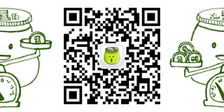
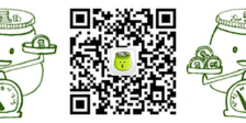
resize picture

diff --git a/README.md b/README.md
@@ -1,13 +1,13 @@
 # Wechat for Woojuu -- 记账的微信应用
 =========
-- Record your daily expense, record your daily life
+## Record your daily expense, record your daily life
 
   ![](misc/qrcode-banner.png)
 
 ## Why we do this?
 - Help users to form the habit of recording daily expense
 - Enable expense data to provide meaningful feedback
-- Get hands wet for ATI chat and data analysis
+- Get hands wet for AI chat and data analysis
 
 ### screenshots
   ![](misc/comparision.jpg)  ![](misc/prediction.jpg) ![](misc/voiceinput.jpg)
